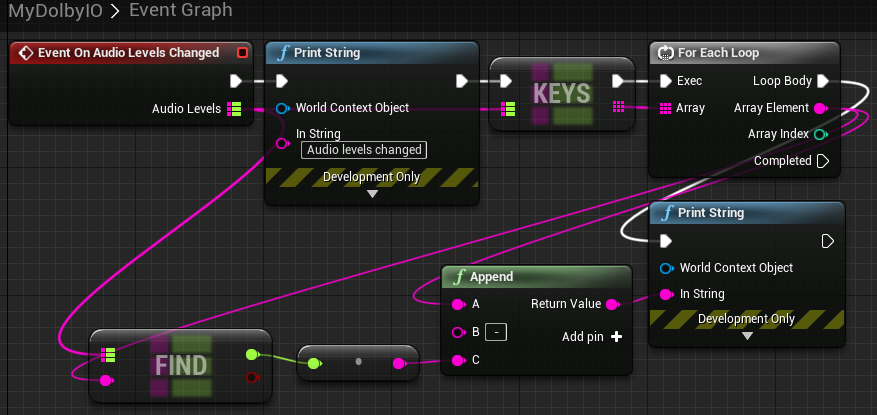
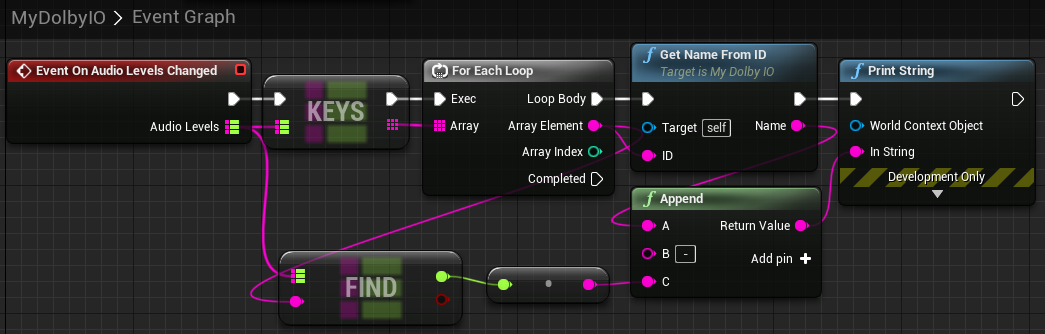
Update readme

diff --git a/README.md b/README.md
@@ -48,17 +48,26 @@ Disconnected from conference. Triggered when disconnected by any means (in parti
 Example:  
 ![example](Images/on_disconnected.PNG)
 
-### On Remote Participants Changed
-Triggered when participants are added to or removed from the conference. Provides the IDs of the remote participants in its argument.
+### On Participant Added
+Triggered when a remote participant is added to the conference. Provides information about the participant in its argument.
 
 Example:  
-![example](Images/on_remote_participants_changed.PNG)
+![example](Images/on_participant_added.PNG)
+
+### On Participant Left
+Triggered when a remote participant leaves the conference. Provides information about the participant in its argument.
+
+Example:  
+![example](Images/on_participant_left.PNG)
 
 ### On Active Speakers Changed
 Triggered when participants start or stop speaking. Provides the IDs of the current speakers in its argument.
 
 Example:  
 ![example](Images/on_active_speakers_changed.PNG)
+
+Given helper function:  
+![example](Images/get_name_from_id.PNG)
 
 ### On Audio Levels Changed
 There are new audio levels available. Provides a string-to-float mapping of participant IDs to their audio levels (0.0 is silent, 1.0 is loudest) in its argument. Triggered by the [Get Audio Levels](#get-audio-levels) function.
